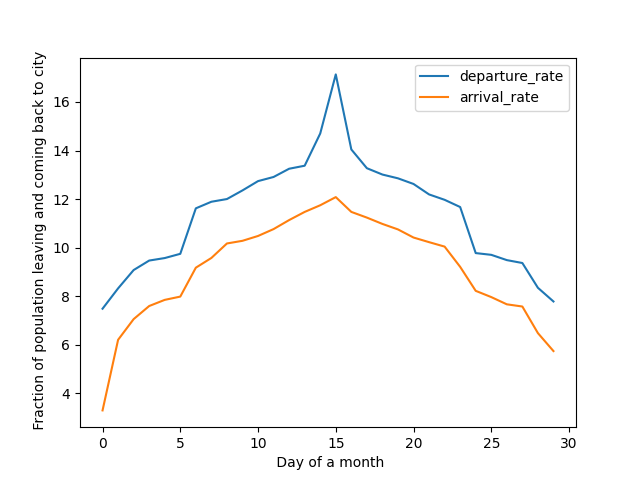
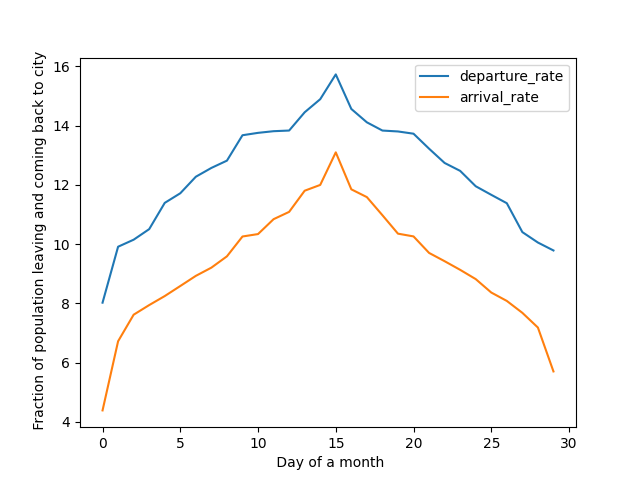
scenario 1 modification and adding oop concepts in programming

diff --git a/main.py b/main.py
@@ -1,6 +1,7 @@
 import matplotlib.pyplot as plt
 
-import Pop_distribution
+from Pop_distribution import arrival_rate_back_to_city, departure_rate_for_hoilday
+from gumbell import gumbell_distribution
 # import simpy
 
 class initial_scenario():
@@ -27,13 +28,19 @@ def scenario_1(scenario, fraction_of_pop_to_holiday,fraction_of_pop_from_holiday
 
     return fleet, population, scenario.population-population, (scenario.population-population)/scenario.passenger_per_vehicle, additional_fleet
 
-
+def plot_gumbell(dep_rate, arrival_rate):
+    plt.plot(arrival_rate, linewidth=2, color='r', label='arrival_rate')
+    plt.plot(dep_rate,linewidth=2, color='g', label = 'dep_rate')
+    plt.legend()
+    return plt.show()
 if __name__ == '__main__':
     #population = int(input('enter the population in city, must be an integer value'))
     population = 100000
     scenario = initial_scenario(population, population*0.1, 2 )
-    fraction_of_pop_to_holiday = Pop_distribution.departure_rate_for_hoilday() # on daily basis
-    fraction_of_pop_from_holiday = Pop_distribution.arrival_rate_back_to_city()
+    fraction_of_pop_to_holiday, fraction_of_pop_from_holiday = gumbell_distribution()
+    plot_gumbell(fraction_of_pop_from_holiday, fraction_of_pop_to_holiday)
+    # fraction_of_pop_to_holiday = Pop_distribution.departure_rate_for_hoilday() # on daily basis
+    # fraction_of_pop_from_holiday = Pop_distribution.arrival_rate_back_to_city()
     fleet, population, hoilday, hoilday_fleet,additional_fleet_per_day = scenario_1(scenario, fraction_of_pop_to_holiday, fraction_of_pop_from_holiday)
     print(f'The Population in city is {population}, with a fleet size of {fleet}')
     print(f'The Population on hoilday is {hoilday}, with a fleet size of {hoilday_fleet}')

diff --git a/gumbell.py b/gumbell.py
@@ -1,0 +1,35 @@
+import numpy as np
+import matplotlib.pyplot as plt
+
+def gumbell_distribution():
+    mu, beta = 1.0, 4.0# location and scale
+
+    s = np.random.gumbel(mu, beta, 30)
+
+    means = []
+
+    maxima = []
+
+    for i in range(0,1000) :
+
+       a = np.random.normal(mu, beta, 30)
+
+       means.append(a.mean())
+
+       maxima.append(a.max())
+
+    count, bins, ignored = plt.hist(maxima, 30, density=True)
+
+    beta = np.std(maxima) * np.sqrt(6) / np.pi
+
+    mu = np.mean(maxima) - 0.57721*beta
+
+    arrival_rate = (1/beta)*np.exp(-(bins - mu)/beta) * np.exp(-np.exp(-(bins - mu)/beta))
+    dep_rate = 1/(beta * np.sqrt(2 * np.pi))* np.exp(-(bins - mu)**2 / (2 * beta**2))
+
+    # plt.plot(arrival_rate,linewidth=2, color='r', label='arrival_rate')
+    #
+    # plt.plot(dep_rate,linewidth=2, color='g', label = 'dep_rate')
+    # plt.legend()
+    # plt.show()
+    return arrival_rate, dep_rate

diff --git a/Pop_distribution.py b/Pop_distribution.py
@@ -30,13 +30,13 @@ def departure_rate_for_hoilday():
     samples = sample_pop[index]
     return samples
 
-df1 = departure_rate_for_hoilday()
-df2= arrival_rate_back_to_city()
-plt.plot(df1, label='departure_rate')
-plt.plot(df2,label='arrival_rate')
-plt.xlabel(' Day of a month')
-plt.ylabel(' Fraction of population leaving and coming back to city')
-plt.legend(loc='best')
-plt.savefig('dep_arrival_rate.png')
-plt.show()
+# df1 = departure_rate_for_hoilday()
+# df2= arrival_rate_back_to_city()
+# plt.plot(df1, label='departure_rate')
+# plt.plot(df2,label='arrival_rate')
+# plt.xlabel(' Day of a month')
+# plt.ylabel(' Fraction of population leaving and coming back to city')
+# plt.legend(loc='best')
+# plt.savefig('dep_arrival_rate.png')
+# plt.show()
 
